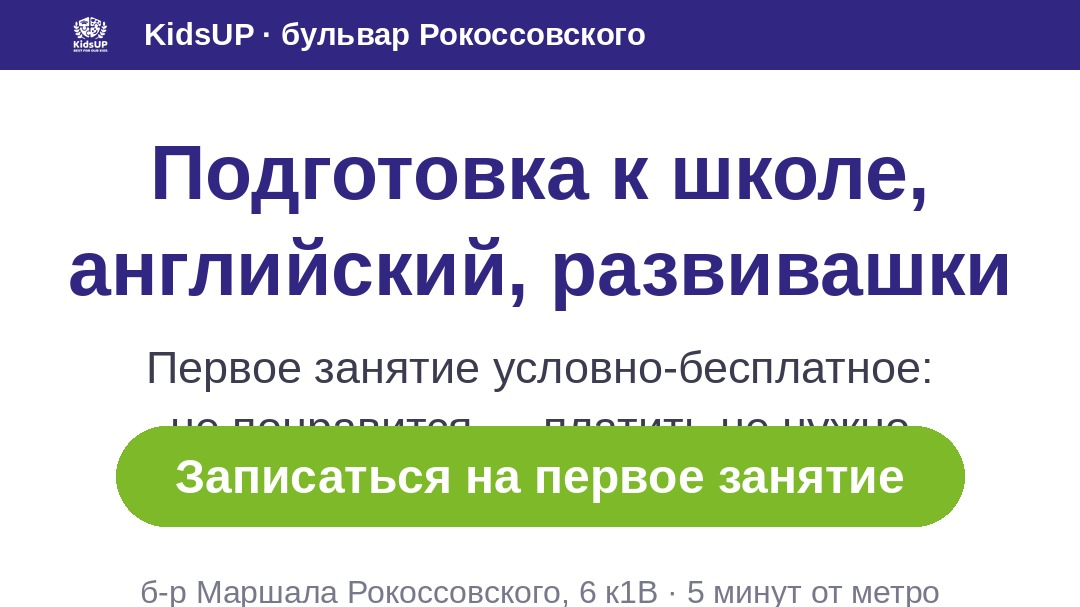
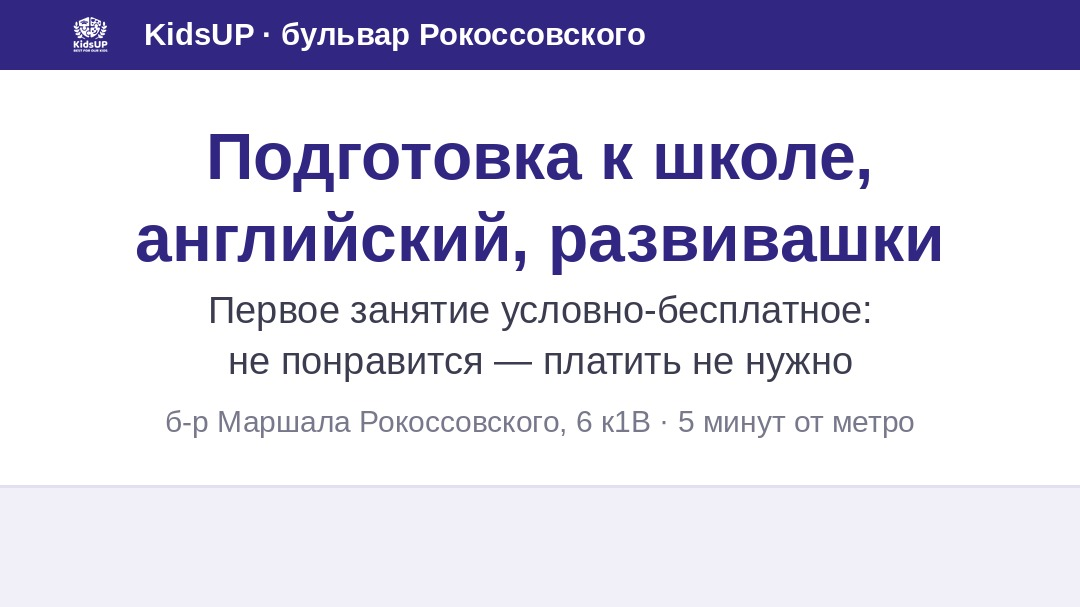
Счётчик Roistat каноническим блоком в head, креативы без кнопки под интерфейс площадок
Roistat ругался «код счётчика отличается от оригинального»: счётчик был
вклеен в общий скрипт в конце body и переформатирован под наш стиль.
Вынес отдельным блоком с комментариями Roistat в самое начало head на
site/day/week, ключ счётчика вместо номера проекта.

Креативы: убрал свою зелёную кнопку — VK рисовал поверх неё свою и
закрывал строку «не понравится — платить не нужно», Директ клал на неё
плашку с доменом. Нижние 20% высоты теперь свободны под интерфейс
площадки (светлая плашка вместо пустого белого), в квадрате освободившееся
место занято тремя буллитами. Перезалито в Директ (4 объявления РСЯ) и
в VK (2 баннера).

Claude-Session: https://claude.ai/code/session_01DP7mBr5C3WFqQnNia5bFBU

diff --git a/docs/roistat_zayavki.html b/docs/roistat_zayavki.html
@@ -75,10 +75,20 @@ ul{padding-left:20px}li{margin:5px 0}
 <li><b>Выручка едет:</b> у 145 заказов заполнено поле выручки — как только «Учится» станет «Оплачен», деньги встанут в отчёт.</li>
 </ul></div>
 
-<h2>6. Срочно: тариф</h2>
+<h2>6. Счётчик: почему Roistat ругался и что исправлено</h2>
+<div class="card ok">
+<p>В кабинете горело «Код счетчика, установленный на сайте, отличается от оригинального кода счетчика». Причина простая: на kidsup.ru счётчик был вписан не отдельным блоком, а вклеен в общий скрипт в конце страницы и переформатирован под наш стиль кода. Работал он верно (визиты Roistat видит — 921 за месяц), но проверка кабинета сверяет текст буквально и такой вариант не узнаёт.</p>
+<p><b>Исправлено 10.09:</b> счётчик вынесен отдельным блоком <code>&lt;!-- Roistat Counter Start --&gt;</code> в самое начало <code>&lt;head&gt;</code> на трёх страницах — kidsup.ru, kidsupday.ru, kidsupweek.ru — ровно в том виде, в каком его выдаёт кабинет, с ключом счётчика <code>3397a0b4…c71c5</code>. Предупреждение должно погаснуть в течение суток после следующей проверки.</p>
+</div>
+<div class="card alarm">
+<p><b>На nburakov.com счётчика нет вообще.</b> Проверено 10.09: на сайте Клуба Буракова стоит только Яндекс Метрика (32204964). При этом 8 из 25 объявлений Директа ведут именно туда — эти клики Roistat не увидит: ни визита, ни источника, ни звонка через подменный номер.</p>
+<p><b>Что сделать (5 минут, сайт на Tilda):</b> Настройки сайта → «Ещё» → «HTML-код для вставки внутрь HEAD» → вставить блок счётчика → Опубликовать все страницы. Код я пришлю отдельным сообщением — он тот же, что на kidsup.ru. Пока этого нет, Люберцы в отчёте Roistat будут выглядеть как канал без заявок.</p>
+</div>
+
+<h2>7. Срочно: тариф</h2>
 <div class="card alarm"><p>На скриншоте кабинета: тариф «Базовый 20 (2024-09)», <b>до истечения 7 дней</b>. Если не продлить до 15.09, вместе с тарифом отключатся подменные номера коллтрекинга и аналитика — ровно в тот момент, когда стартуют Директ и VK. Заодно стоит посмотреть, хватит ли 20 подменных номеров при новом трафике.</p></div>
 
-<h2>7. Порядок действий</h2>
+<h2>8. Порядок действий</h2>
 <div class="card"><table>
 <tr><th>Когда</th><th>Кто</th><th>Что</th></tr>
 <tr><td>Сегодня–завтра</td><td>Борис</td><td>Сопоставить статусы по таблице выше (3 минуты) и написать мне</td></tr>

diff --git a/app/static/site.html b/app/static/site.html
@@ -3,6 +3,16 @@
 <head>
 <meta charset="utf-8">
 <meta name="viewport" content="width=device-width, initial-scale=1">
+<!-- Roistat Counter Start -->
+<script>
+(function(w, d, s, h, id) {
+    w.roistatProjectId = id; w.roistatHost = h;
+    var p = d.location.protocol == "https:" ? "https://" : "http://";
+    var u = /^.*roistat_visit=[^;]+(.*)?$/.test(d.cookie) ? "/dist/module.js" : "/api/site/1.0/"+id+"/init?referrer="+encodeURIComponent(d.location.href);
+    var js = d.createElement(s); js.charset="UTF-8"; js.async = 1; js.src = p+h+u; var js2 = d.getElementsByTagName(s)[0]; js2.parentNode.insertBefore(js, js2);
+})(window, document, 'script', 'cloud.roistat.com', '3397a0b40200c8ca0a11591ad26c71c5');
+</script>
+<!-- Roistat Counter End -->
 <title>KidsUP — детский центр и английский сад на Бульваре Рокоссовского</title>
 <meta name="description" content="Учебный год 2026/27 идёт: группы уже занимаются, присоединиться можно в любой месяц. Научим читать за 3 месяца, заговорит по-английски за год. 12 направлений для детей от 1,3 до 12 лет и 7 новых в наборе. Первое занятие — условно-бесплатное, с диагностикой.">
 <link rel="canonical" href="https://kidsup.ru/">
@@ -1790,16 +1800,6 @@ window.addEventListener('DOMContentLoaded', () => {
   const nav = document.querySelector('.top nav a[href="#events"]');
   if (past(9, 13) && nav) nav.remove();
 })();
-/* Roistat — сквозная аналитика */
-(function(w, d, s, h, id) {
-  w.roistatProjectId = id; w.roistatHost = h;
-  var p = d.location.protocol == 'https:' ? 'https://' : 'http://';
-  var u = /^.*roistat_visit=[^;]+(.*)?$/.test(d.cookie)
-    ? '/dist/module.js'
-    : '/api/site/1.0/' + id + '/init?referrer=' + encodeURIComponent(d.location.href);
-  var js = d.createElement(s); js.charset = 'UTF-8'; js.async = 1; js.src = p + h + u;
-  var js2 = d.getElementsByTagName(s)[0]; js2.parentNode.insertBefore(js, js2);
-})(window, document, 'script', 'cloud.roistat.com', '228571');
 /* счётчик до 31.08 23:59 МСК */
 (function(){
   const end = new Date('2026-08-31T23:59:59+03:00').getTime();

diff --git a/app/static/day.html b/app/static/day.html
@@ -3,6 +3,16 @@
 <head>
 <meta charset="utf-8">
 <meta name="viewport" content="width=device-width, initial-scale=1">
+<!-- Roistat Counter Start -->
+<script>
+(function(w, d, s, h, id) {
+    w.roistatProjectId = id; w.roistatHost = h;
+    var p = d.location.protocol == "https:" ? "https://" : "http://";
+    var u = /^.*roistat_visit=[^;]+(.*)?$/.test(d.cookie) ? "/dist/module.js" : "/api/site/1.0/"+id+"/init?referrer="+encodeURIComponent(d.location.href);
+    var js = d.createElement(s); js.charset="UTF-8"; js.async = 1; js.src = p+h+u; var js2 = d.getElementsByTagName(s)[0]; js2.parentNode.insertBefore(js, js2);
+})(window, document, 'script', 'cloud.roistat.com', '3397a0b40200c8ca0a11591ad26c71c5');
+</script>
+<!-- Roistat Counter End -->
 <title>День открытых дверей KidsUP — 30 августа 2026</title>
 <meta name="description" content="30 августа приходите в KidsUP на бульваре Маршала Рокоссовского: мастер-классы для детей, знакомство с педагогами, разбор уровня ребёнка и подбор занятий на учебный год. Вход свободный.">
 <link rel="canonical" href="https://kidsupday.ru/">
@@ -371,16 +381,6 @@ document.getElementById('lead').addEventListener('submit', async function (e) {
     btn.disabled = false; btn.textContent = 'Записаться';
   }
 });
-/* Roistat — сквозная аналитика */
-(function (w, d, s, h, id) {
-  w.roistatProjectId = id; w.roistatHost = h;
-  var p = d.location.protocol == 'https:' ? 'https://' : 'http://';
-  var u = /^.*roistat_visit=[^;]+(.*)?$/.test(d.cookie)
-    ? '/dist/module.js'
-    : '/api/site/1.0/' + id + '/init?referrer=' + encodeURIComponent(d.location.href);
-  var js = d.createElement(s); js.charset = 'UTF-8'; js.async = 1; js.src = p + h + u;
-  var js2 = d.getElementsByTagName(s)[0]; js2.parentNode.insertBefore(js, js2);
-})(window, document, 'script', 'cloud.roistat.com', '228571');
 </script>
 <!-- Яндекс.Метрика — счётчик 69569509, тот же, что на kidsup.ru -->
 <script>

diff --git a/app/static/week.html b/app/static/week.html
@@ -3,6 +3,16 @@
 <head>
 <meta charset="utf-8">
 <meta name="viewport" content="width=device-width, initial-scale=1">
+<!-- Roistat Counter Start -->
+<script>
+(function(w, d, s, h, id) {
+    w.roistatProjectId = id; w.roistatHost = h;
+    var p = d.location.protocol == "https:" ? "https://" : "http://";
+    var u = /^.*roistat_visit=[^;]+(.*)?$/.test(d.cookie) ? "/dist/module.js" : "/api/site/1.0/"+id+"/init?referrer="+encodeURIComponent(d.location.href);
+    var js = d.createElement(s); js.charset="UTF-8"; js.async = 1; js.src = p+h+u; var js2 = d.getElementsByTagName(s)[0]; js2.parentNode.insertBefore(js, js2);
+})(window, document, 'script', 'cloud.roistat.com', '3397a0b40200c8ca0a11591ad26c71c5');
+</script>
+<!-- Roistat Counter End -->
 <title>Неделя открытых уроков KidsUP — 31 августа – 13 сентября</title>
 <meta name="description" content="С 31 августа по 13 сентября приходите на настоящее занятие своей группы в KidsUP. Живое расписание со свободными местами, первое занятие условно-бесплатное.">
 <link rel="canonical" href="https://kidsupweek.ru/">
@@ -428,16 +438,6 @@ document.getElementById('lead').addEventListener('submit', async function (e) {
     btn.disabled = false; btn.textContent = 'Записаться на урок';
   }
 });
-/* Roistat — сквозная аналитика */
-(function (w, d, s, h, id) {
-  w.roistatProjectId = id; w.roistatHost = h;
-  var p = d.location.protocol == 'https:' ? 'https://' : 'http://';
-  var u = /^.*roistat_visit=[^;]+(.*)?$/.test(d.cookie)
-    ? '/dist/module.js'
-    : '/api/site/1.0/' + id + '/init?referrer=' + encodeURIComponent(d.location.href);
-  var js = d.createElement(s); js.charset = 'UTF-8'; js.async = 1; js.src = p + h + u;
-  var js2 = d.getElementsByTagName(s)[0]; js2.parentNode.insertBefore(js, js2);
-})(window, document, 'script', 'cloud.roistat.com', '228571');
 </script>
 <!-- Яндекс.Метрика — счётчик 69569509, тот же, что на kidsup.ru -->
 <script>

diff --git a/docs/rabota/vk_creatives.py b/docs/rabota/vk_creatives.py
@@ -1,10 +1,19 @@
-"""Три креатива VK под свои размеры: без кадрирования и обрезанного текста."""
+"""Креативы под VK и РСЯ: свой макет на каждый размер, нижняя зона свободна.
+
+Площадки сами рисуют поверх картинки свои элементы внизу:
+VK — зелёную кнопку «Записаться», Директ — плашку с доменом kidsup.ru.
+Поэтому нижние 20% высоты держим пустыми: ни текста, ни кнопки.
+Своей кнопки в макете больше нет — она дублировала кнопку площадки
+и попадала ровно под неё.
+"""
 from PIL import Image, ImageDraw, ImageFont
 
 INDIGO = (49, 39, 131); GREEN = (125, 185, 40); INK = (60, 60, 80); GREY = (120, 120, 140); WHITE = (255, 255, 255)
 FB = "/usr/share/fonts/truetype/liberation/LiberationSans-Bold.ttf"
 FR = "/usr/share/fonts/truetype/liberation/LiberationSans-Regular.ttf"
 LOGO = Image.open("/home/user/kidsup/app/static/logo_white.png").convert("RGBA")
+
+SAFE = 0.20          # доля высоты снизу, которую занимает интерфейс площадки
 
 def f(path, size): return ImageFont.truetype(path, size)
 
@@ -19,7 +28,7 @@ def wrap(draw, text, font, maxw):
     if cur: lines.append(cur)
     return lines
 
-def fit(draw, text, path, maxw, start, minimum=20):
+def fit(draw, text, path, maxw, start, minimum=18):
     """Подбирает кегль так, чтобы строка гарантированно влезла в ширину."""
     s = start
     while s > minimum and draw.textlength(text, font=f(path, s)) > maxw: s -= 2
@@ -28,6 +37,15 @@ def fit(draw, text, path, maxw, start, minimum=20):
 def build(W, H, out, head="KidsUP · бульвар Рокоссовского", addr="б-р Маршала Рокоссовского, 6 к1В · 5 минут от метро"):
     im = Image.new("RGB", (W, H), WHITE); d = ImageDraw.Draw(im)
     pad = int(W * 0.06); inner = W - 2 * pad
+    wide = H < W * 0.8            # 16:9 — по высоте тесно, шрифты мельче
+    tall = H >= W * 1.1
+
+    # подложка под интерфейс площадки: пустая белая полоса читается как брак вёрстки,
+    # светлая плашка — как задуманный «подвал» карточки
+    band = int(H * (1 - SAFE))
+    d.rectangle([0, band, W, H], fill=(241, 240, 249))
+    d.rectangle([0, band, W, band + max(2, int(H * 0.004))], fill=(225, 223, 240))
+
     # шапка
     bar = int(H * 0.115) if H <= W else int(H * 0.09)
     d.rectangle([0, 0, W, bar], fill=INDIGO)
@@ -35,49 +53,57 @@ def build(W, H, out, head="KidsUP · бульвар Рокоссовского",
     im.paste(logo, (pad, (bar - lh) // 2), logo)
     hf = fit(d, head, FB, W - pad * 2 - lh - int(W * 0.03), int(bar * 0.46))
     d.text((pad + lh + int(W * 0.025), bar // 2), head, font=hf, fill=WHITE, anchor="lm")
-    # заголовок
-    wide = H < W * 0.8            # 16:9 — по высоте тесно, шрифты мельче
-    y = bar + int(H * (0.07 if wide else 0.10))
-    tf = f(FB, int(W * (0.060 if wide else 0.072)))
-    lines = wrap(d, "Подготовка к школе, английский, развивашки", tf, inner)
-    while len(lines) > 2 and tf.size > 24:
-        tf = f(FB, tf.size - 2); lines = wrap(d, "Подготовка к школе, английский, развивашки", tf, inner)
-    for ln in lines:
-        d.text((W // 2, y), ln, font=tf, fill=INDIGO, anchor="ma"); y += int(tf.size * 1.25)
-    # подзаголовок
-    y += int(H * (0.020 if wide else 0.035))
-    sf = f(FR, int(W * (0.034 if wide else 0.042)))
-    for ln in ["Первое занятие условно-бесплатное:", "не понравится — платить не нужно"]:
-        g = fit(d, ln, FR, inner, sf.size)
-        d.text((W // 2, y), ln, font=g, fill=INK, anchor="ma"); y += int(g.size * 1.35)
-    # вертикальный формат высокий — заполняем середину пользой, а не пустотой
-    if H >= W * 1.1:
-        y += int(H * 0.03)
-        bl = f(FR, int(W * 0.040)); r = int(W * 0.011)
-        items = ["Группы до 8 детей", "Кембриджская программа", "Возраст от 1,3 до 12 лет"]
-        widest = max(d.textlength(t, font=bl) for t in items)
-        x0 = int((W - (widest + r * 4)) / 2)
-        for ln in items:
-            d.ellipse([x0, y + bl.size // 2 - r, x0 + r * 2, y + bl.size // 2 + r], fill=GREEN)
-            d.text((x0 + r * 4, y), ln, font=bl, fill=INK)
-            y += int(bl.size * 1.9)
-    # кнопка — от текста, а не наоборот
-    btn_text = "Записаться на первое занятие"
-    bf = fit(d, btn_text, FB, inner - int(W * 0.10), int(W * (0.038 if wide else 0.045)))
-    bw = int(d.textlength(btn_text, font=bf) + W * 0.11); bh = int(bf.size * 2.1)
-    bx = (W - bw) // 2
-    by = max(y + int(H * 0.03), H - int(H * (0.16 if wide else 0.135)) - bh)
-    by = min(by, H - int(H * 0.13) - bh)
-    d.rounded_rectangle([bx, by, bx + bw, by + bh], radius=bh // 2, fill=GREEN)
-    d.text((W // 2, by + bh // 2), btn_text, font=bf, fill=WHITE, anchor="mm")
-    # адрес
-    af = fit(d, addr, FR, inner, int(W * 0.030))
-    d.text((W // 2, H - int(H * 0.055)), addr, font=af, fill=GREY, anchor="ma")
-    im.save(out, "JPEG", quality=92)
-    print(out, im.size)
 
-for w, h in ((1080, 607), (1080, 1350), (600, 600)):
-    build(w, h, f"/tmp/new_{w}x{h}.jpg")
-for w, h in ((1080, 607), (600, 600)):
-    build(w, h, f"/tmp/bur_{w}x{h}.jpg", head="Детский клуб Буракова · Люберцы",
-          addr="Люберцы, ул. 8 Марта, 43к2 · рядом с домом")
+    # ---- собираем блок и меряем его высоту, чтобы отцентрировать в свободной зоне
+    block = []                     # (тип, шрифт, текст, отступ сверху)
+
+    tf = f(FB, int(W * (0.062 if wide else 0.072)))
+    HEAD = "Подготовка к школе, английский, развивашки"
+    lines = wrap(d, HEAD, tf, inner)
+    while len(lines) > 2 and tf.size > 24:
+        tf = f(FB, tf.size - 2); lines = wrap(d, HEAD, tf, inner)
+    for i, ln in enumerate(lines):
+        block.append(("t", tf, ln, 0 if i == 0 else int(tf.size * 0.25)))
+
+    sf_size = int(W * (0.036 if wide else 0.042))
+    for i, ln in enumerate(["Первое занятие условно-бесплатное:", "не понравится — платить не нужно"]):
+        g = fit(d, ln, FR, inner, sf_size)
+        block.append(("s", g, ln, int(H * (0.035 if wide else 0.045)) if i == 0 else int(g.size * 0.35)))
+
+    if not wide:              # в квадрате и вертикали есть место на пользу, а не на воздух
+        bl = f(FR, int(W * (0.040 if tall else 0.046)))
+        for i, ln in enumerate(["Группы до 8 детей", "Кембриджская программа", "Возраст от 1,3 до 12 лет"]):
+            block.append(("b", bl, ln, int(H * 0.035) if i == 0 else int(bl.size * 0.85)))
+
+    af = fit(d, addr, FR, inner, int(W * (0.028 if wide else 0.030)))
+    block.append(("a", af, addr, int(H * (0.045 if wide else 0.055))))
+
+    total = sum(gap + font.size for _, font, _, gap in block)
+    top, bottom = bar, int(H * (1 - SAFE))
+    y = top + max(int(H * 0.03), (bottom - top - total) // 2)
+
+    r = int(W * 0.011)
+    bullets = [b for b in block if b[0] == "b"]
+    x0 = 0
+    if bullets:
+        widest = max(d.textlength(t, font=fo) for _, fo, t, _ in bullets)
+        x0 = int((W - (widest + r * 4)) / 2)
+    for kind, font, text, gap in block:
+        y += gap
+        if kind == "t":   d.text((W // 2, y), text, font=font, fill=INDIGO, anchor="ma")
+        elif kind == "s": d.text((W // 2, y), text, font=font, fill=INK, anchor="ma")
+        elif kind == "a": d.text((W // 2, y), text, font=font, fill=GREY, anchor="ma")
+        else:
+            d.ellipse([x0, y + font.size // 2 - r, x0 + r * 2, y + font.size // 2 + r], fill=GREEN)
+            d.text((x0 + r * 4, y), text, font=font, fill=INK)
+        y += font.size
+    assert y <= bottom, f"{out}: блок вылез в зону площадки ({y} > {bottom})"
+    im.save(out, "JPEG", quality=92)
+    print(out, im.size, "низ блока", y, "из", bottom)
+
+if __name__ == "__main__":
+    for w, h in ((1080, 607), (1080, 1350), (600, 600)):
+        build(w, h, f"/tmp/new_{w}x{h}.jpg")
+    for w, h in ((1080, 607), (600, 600)):
+        build(w, h, f"/tmp/bur_{w}x{h}.jpg", head="Детский клуб Буракова · Люберцы",
+              addr="Люберцы, ул. 8 Марта, 43к2 · рядом с домом")

diff --git a/app/main.py b/app/main.py
@@ -2977,7 +2977,7 @@ def _wazzup_process(payload: dict) -> None:
     _wazzup_tag(payload)
 
 
-APP_VERSION = "2026-09-10.05"
+APP_VERSION = "2026-09-10.06"
 
 
 @app.get("/api/net")
